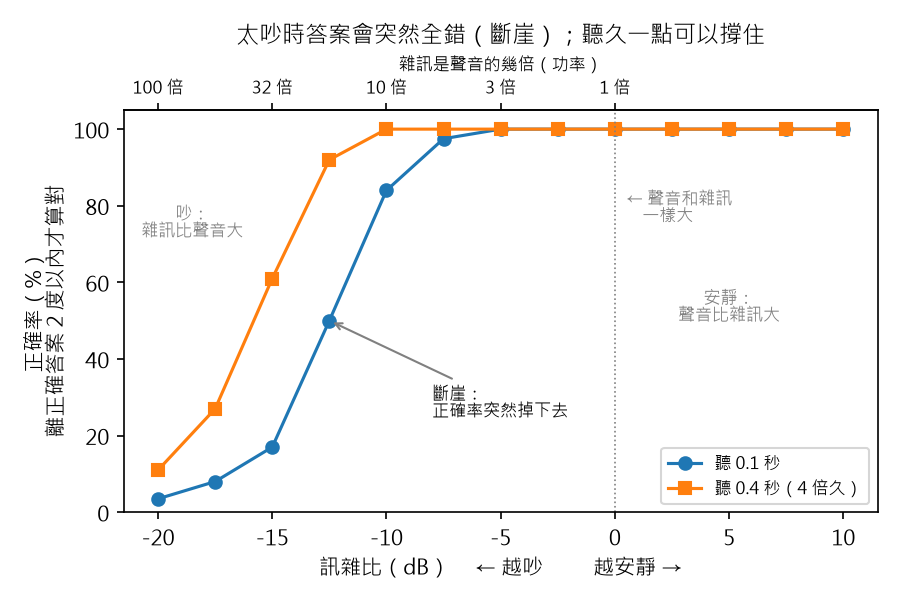
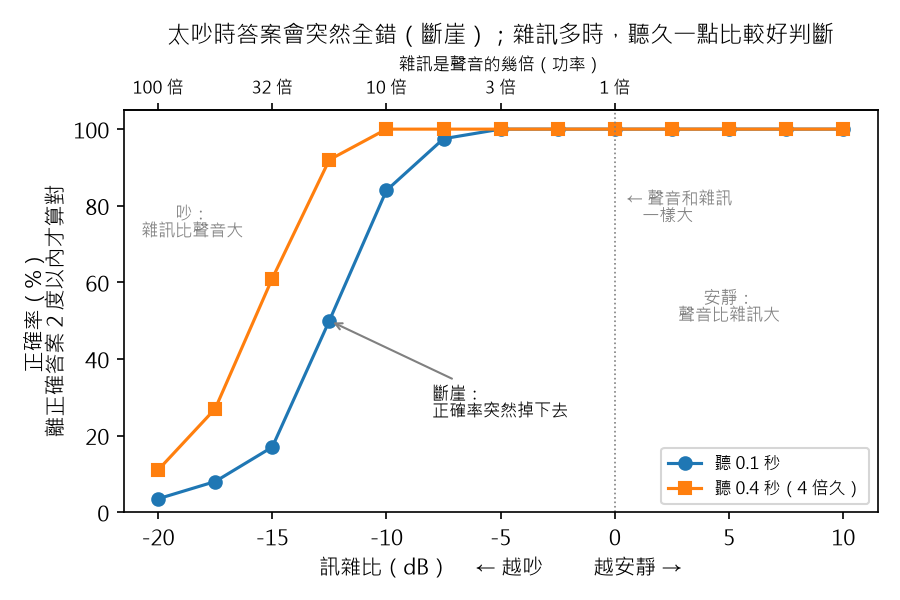
Say "雜訊多的時候，聽久一點，比較好判斷"
Aaron found "聽久一點，可以撐住" unclear. Chapter 1 section 6 and the
noise figure title now use his wording.

Changed region(s): [[0.1867, 0.03, 0.9333, 0.09]]

diff --git a/scripts/step1_two_mics.py b/scripts/step1_two_mics.py
@@ -303,7 +303,7 @@ def fig_noise(path, snrs, hit_short, hit_long):
     top.set_xticks([-20, -15, -10, -5, 0])
     top.set_xticklabels(["100 倍", "32 倍", "10 倍", "3 倍", "1 倍"], fontsize=8)
     top.set_xlabel("雜訊是聲音的幾倍（功率）", fontsize=8)
-    ax.set_title("太吵時答案會突然全錯（斷崖）；聽久一點可以撐住", fontsize=11)
+    ax.set_title("太吵時答案會突然全錯（斷崖）；雜訊多時，聽久一點比較好判斷", fontsize=11)
     ax.set_ylim(0, 105)
     ax.legend(fontsize=8, loc="lower right")
     fig.tight_layout()

diff --git a/docs/blog/01-two-mics.md b/docs/blog/01-two-mics.md
@@ -205,7 +205,7 @@
   再吵一點，到 32 倍，只剩 17%，跟亂猜差不多。不是慢慢變差，而是像掉下斷崖。
   原因是：雜訊也會讓評審亂投票，造出假的「最高票」。雜訊夠大時，假的最高票比真的還高，
   答案就跳到隨便一個方向。
-- **聽久一點，可以撐住。** 朋友連續叫好幾聲，每一聲都從同一個地方來；
+- **雜訊多的時候，聽久一點，比較好判斷。** 朋友連續叫好幾聲，每一聲都從同一個地方來；
   雜訊每一刻都不一樣。聽得越久，真的票越疊越高，亂投的票互相抵消。
   在雜訊大 18 倍時，聽 0.4 秒的正確率從 50% 升到 92%。
   但注意：聽 4 倍久，只能多忍受 2 倍的雜訊。這也是「乘法的尺」的結果。
